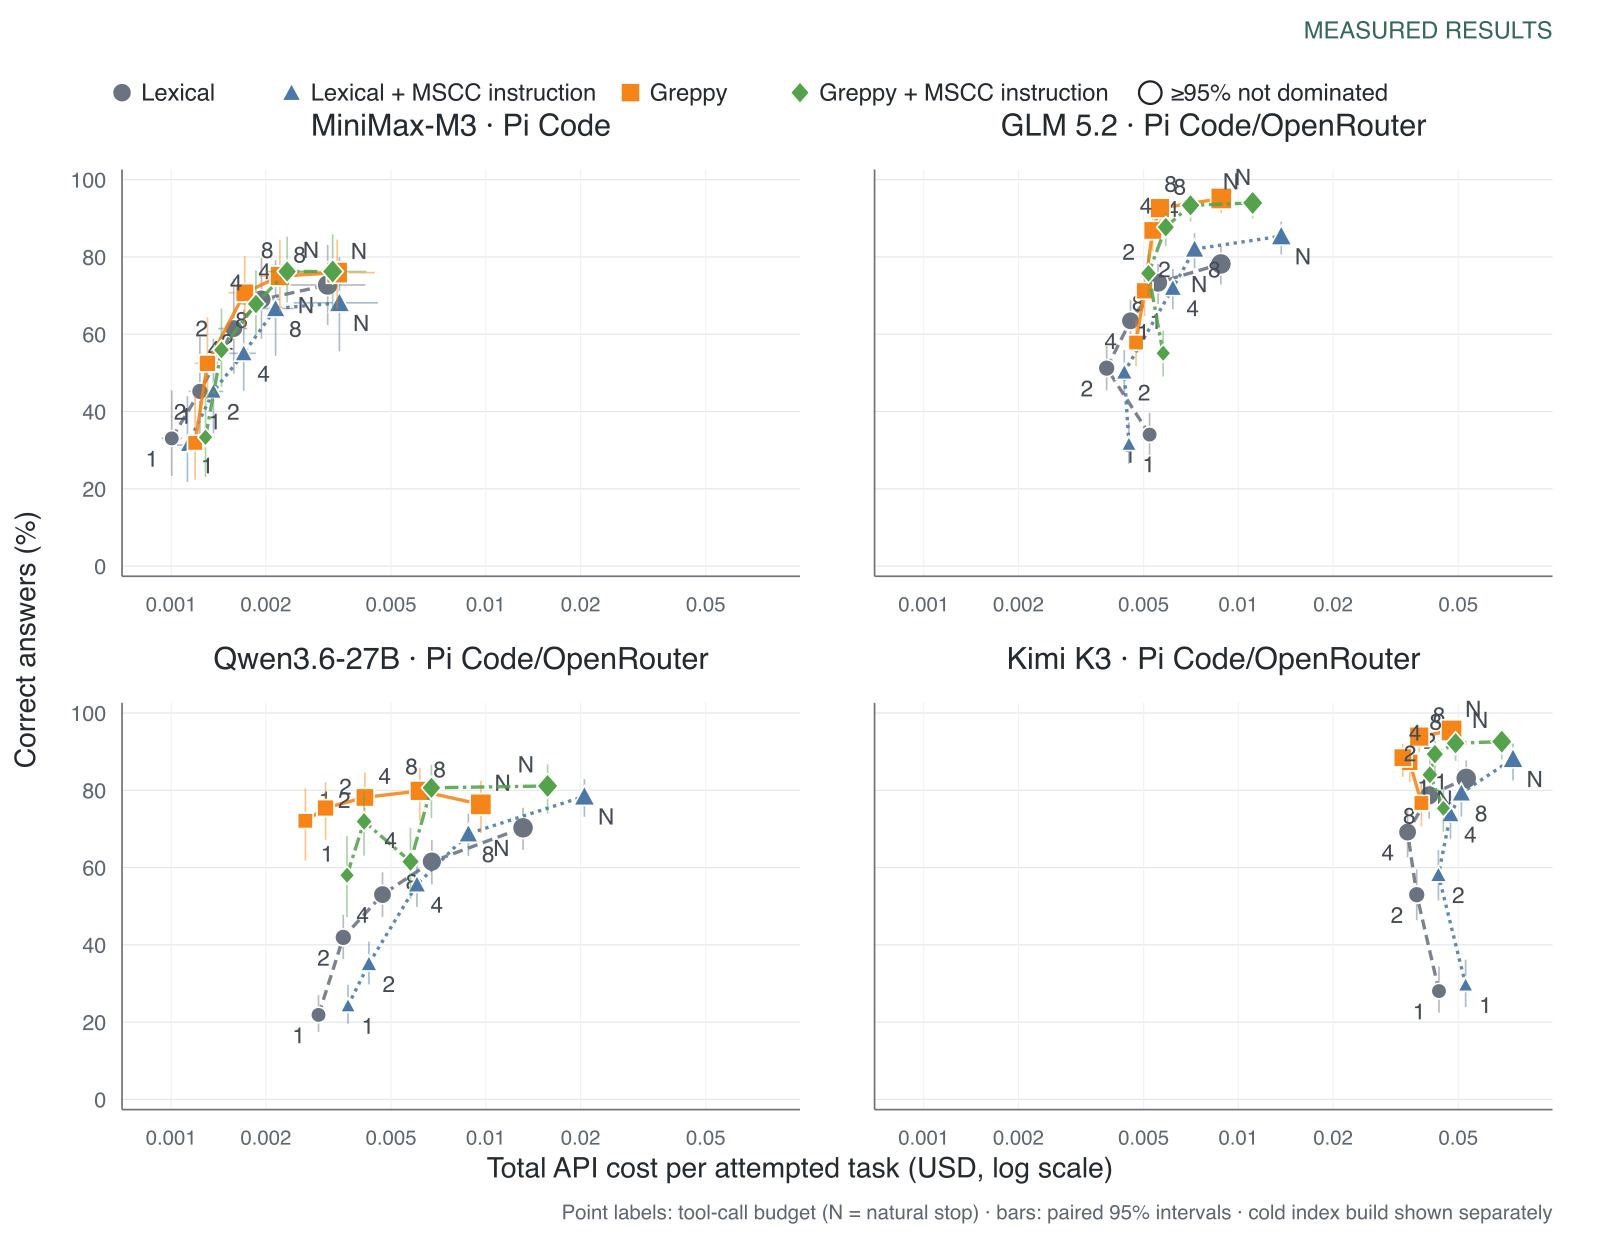
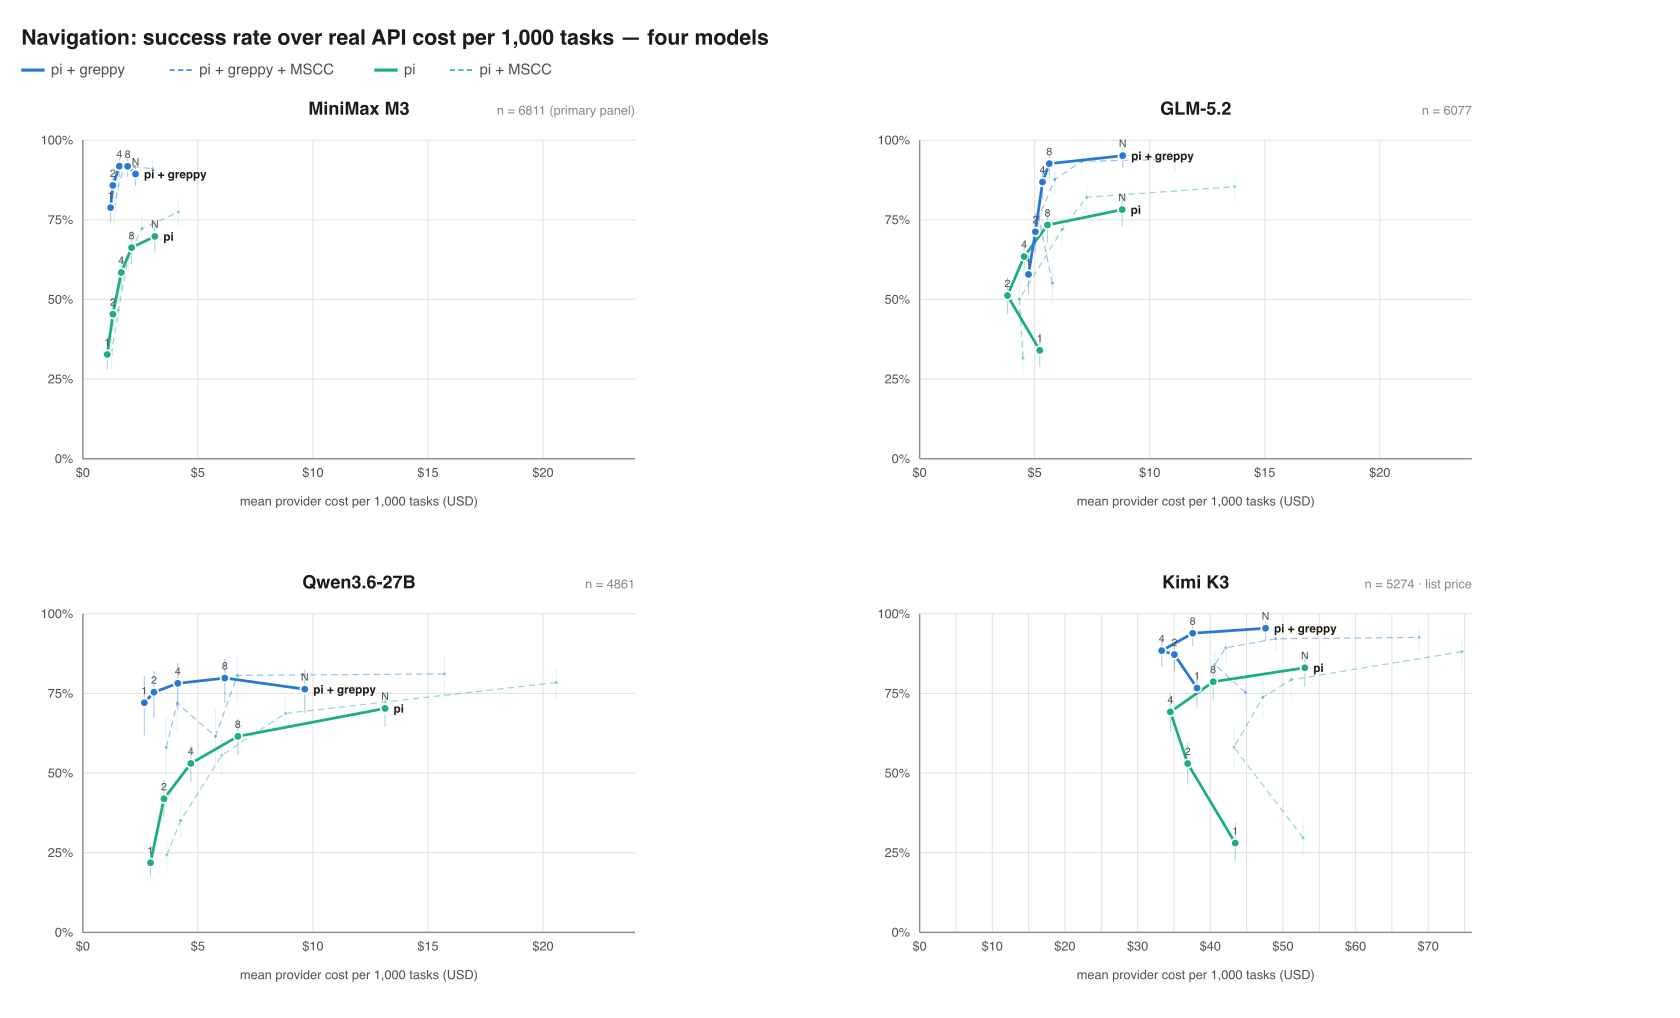
paper: fix figure to match the published artifact; drop duplicate prompt appendix
Three defects in the v0.2.1 paper drop, all fixed:

1. Figure did not match the artifact. The paper figure used a log cost axis
   and MiniMax's understated nav-primary analysis frontier (greppy 75%),
   diverging visibly from the published artifact (nav-real, greppy 89%).
   Regenerated the figure directly from the artifact data blob (all four
   panels, nav-real, exact) in the artifact's own visual language: linear
   per-model cost axis ($0-24; Kimi $0-76), budget-ordered lines, Greppy
   solid vs pi solid, the two +MSCC ablation controls dashed and dimmed,
   Wilson whiskers. Paper figure now equals the artifact in data and look.

2. Stale figure references. Caption and body still said "log scale" /
   "logarithmic cost axis" and described the old four-marker colour scheme
   (orange/green vs grey/blue) and a non-domination "ring" the new figure
   does not draw. Rewrote them: linear axis, greppy=blue / lexical=green,
   per-1,000-tasks. Same fixes in the README figure caption.

3. Duplicate prompt appendix. The prompts appeared twice: an unreferenced
   "Frozen system prompts" listing and the cref-referenced, SHA-pinned
   "verbatim" appendix. Removed the unreferenced duplicate.

diff --git a/README.md b/README.md
@@ -44,7 +44,7 @@ Across four coding models spanning three providers — **MiniMax-M3, GLM-5.2, Qw
 
 <img src="docs/assets/cost-success-frontier.png" width="100%" alt="Cost–success frontier across four models: pi+greppy dominates the lexical baseline in every panel."/>
 
-<sub>Success rate over mean billed API cost per attempted task (log scale), four completed model panels. In every panel the greppy surface (orange square / green diamond) sits above and to the left of the lexical baseline (grey circle / blue triangle) — more correct at lower cost. The 2×2 factorial isolates the source: an explicit *minimum-sufficient-context* **instruction** adds nothing measurable — it tracks the no-instruction arm and only adds cost (up to +\$21 per 1,000 tasks on Kimi-K3). **The structured tool surface, not prompt engineering, carries the advantage.**</sub>
+<sub>Success rate over mean billed API cost per 1,000 attempted tasks (linear axis; the three cheaper models share $0–24, Kimi-K3's list-price costs use $0–76), four completed model panels. In every panel the greppy surface (blue) sits above and to the left of the lexical baseline (green) — more correct at lower cost. The 2×2 factorial isolates the source: an explicit *minimum-sufficient-context* **instruction** adds nothing measurable — it tracks the no-instruction arm and only adds cost (up to +\$21 per 1,000 tasks on Kimi-K3). **The structured tool surface, not prompt engineering, carries the advantage.**</sub>
 
 > 📄 **Full paper:** [*The Minimum Sufficient Code Context Problem — Complexity, Discovery Overhead, and Approximation in Coding Agents*](docs/paper/mscc-greppy-paper.pdf) — the graph formulation of MSCC, its NP-completeness, the lexical-navigation lower bounds, the no-trade-off theorem, and the full four-model empirical evidence.
 